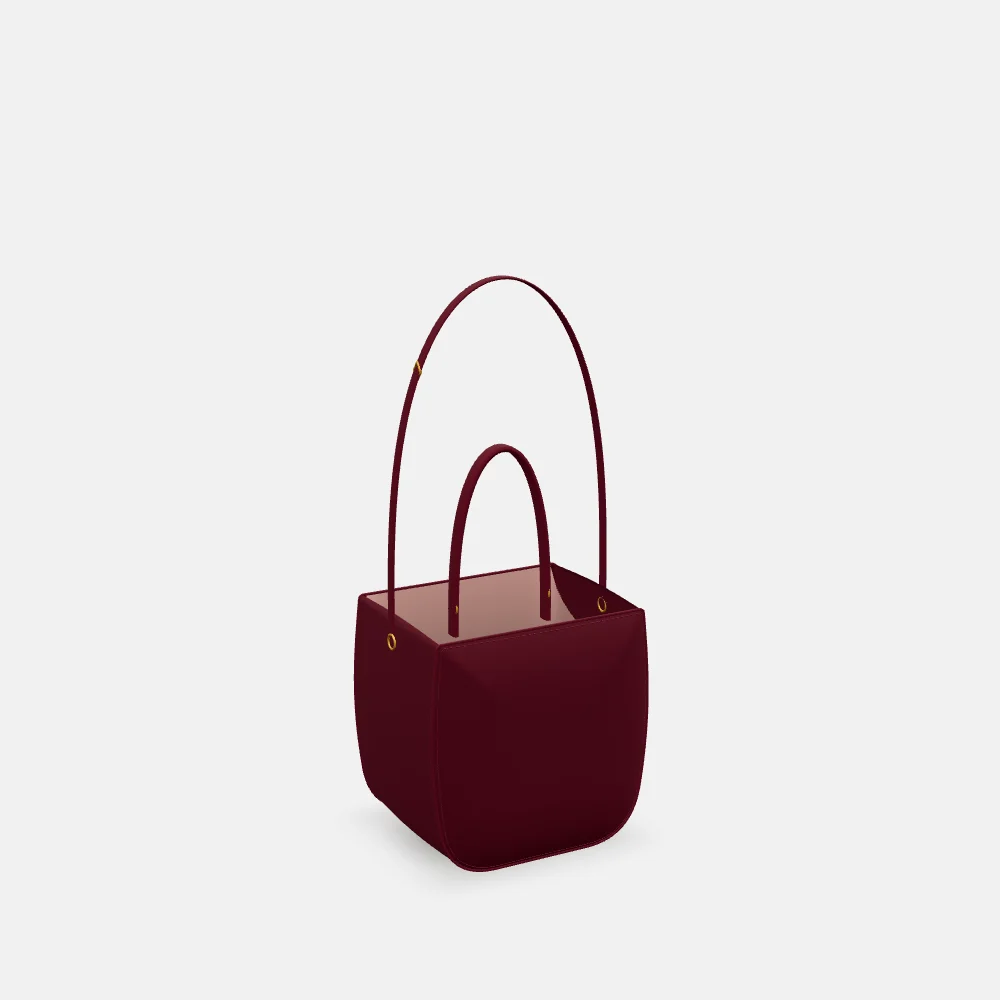
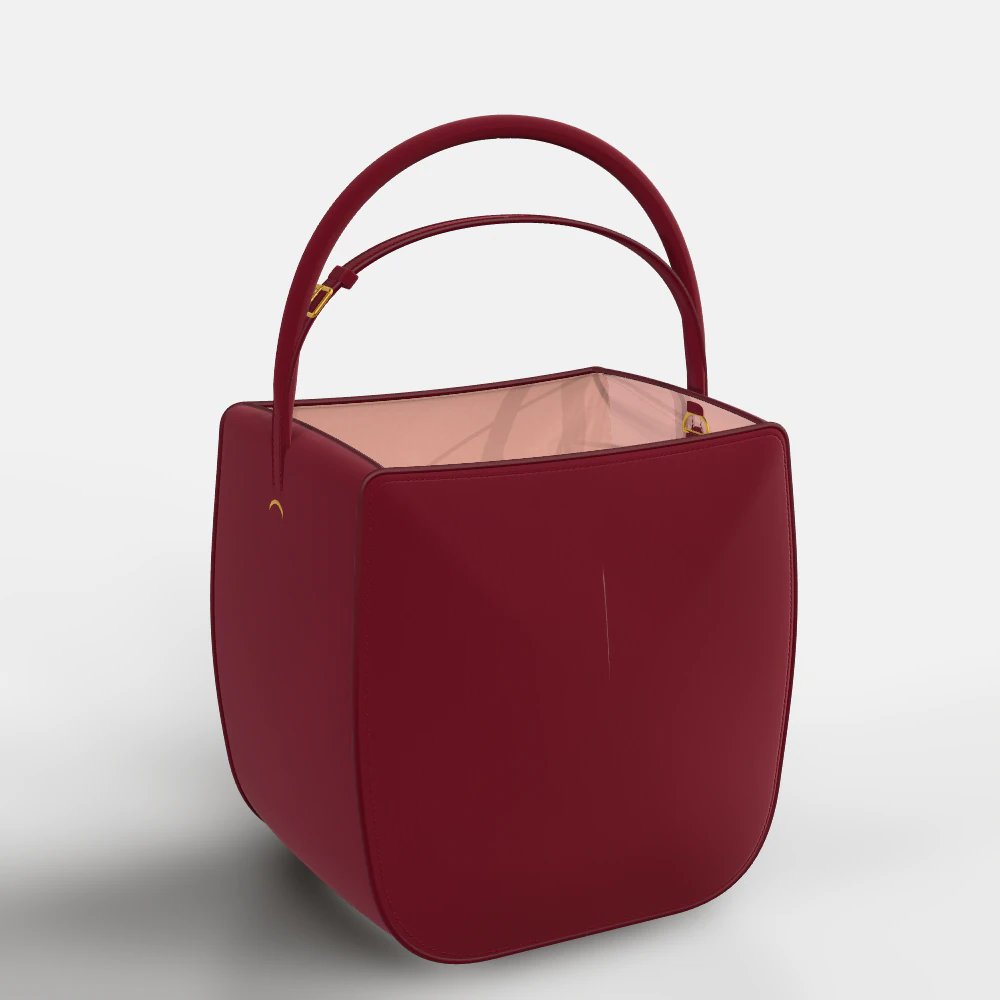
Add final renders, leather catalog, redesigned shop and studio

diff --git a/src/components/studio/scene.tsx b/src/components/studio/scene.tsx
@@ -720,7 +720,7 @@ function softenAlpha(pixels: Float32Array, width: number, height: number, radius
     let total = 0;
     for (let index = -radius; index <= radius; index++) total += line[Math.min(length - 1, Math.max(0, index))]!;
     for (let index = 0; index < length; index++) {
-      write(index, total / span);
+      write(index, Math.max(0, total / span));
       total += line[Math.min(length - 1, index + radius + 1)]! - line[Math.max(0, index - radius)]!;
     }
   };
@@ -737,6 +737,7 @@ function softenAlpha(pixels: Float32Array, width: number, height: number, radius
       });
     }
   }
+  for (let index = 3; index < pixels.length; index += 4) pixels[index] = Math.min(1, pixels[index]! ** 1.9);
   return pixels;
 }
 

diff --git a/src/components/home/hero.tsx b/src/components/home/hero.tsx
@@ -46,7 +46,7 @@ export function Hero() {
             transition={{ type: "spring", bounce: 0, duration: 0.5 }}
             className="absolute inset-0"
           >
-            <Image src={image} alt={`${COLORS[color].name} leather ${form.label.toLowerCase()} bag`} fill preload sizes="(min-width: 768px) 70vw, 100vw" className="object-contain drop-shadow-[0_40px_50px_rgb(0_0_0/0.45)]" />
+            <Image src={image} alt={`${COLORS[color].name} leather ${form.label.toLowerCase()} bag`} fill preload sizes="(min-width: 768px) 70vw, 100vw" className="object-contain" />
           </motion.div>
         </AnimatePresence>
       </div>

diff --git a/scripts/render-catalog.ts b/scripts/render-catalog.ts
@@ -55,7 +55,7 @@ function catalogJobs(): Job[] {
   return STARTING_POINTS.filter((point) => point.key !== "blank").map(({ key }) => ({
     name: key,
     files: { still: path.join(STUDIO_DIR, `${key}.webp`) },
-    still: { spec: PRESETS[key], width: CATALOG_SIZE, height: CATALOG_SIZE, frames: FRAMES, background: STUDIO_GREY, ...FRAMING[key] },
+    still: { spec: PRESETS[key], width: CATALOG_SIZE, height: CATALOG_SIZE, frames: FRAMES, background: STUDIO_GREY, exposure: PRESETS[key].panels.primary.color === "noir" ? 1.9 : undefined, ...FRAMING[key] },
   }));
 }
 
